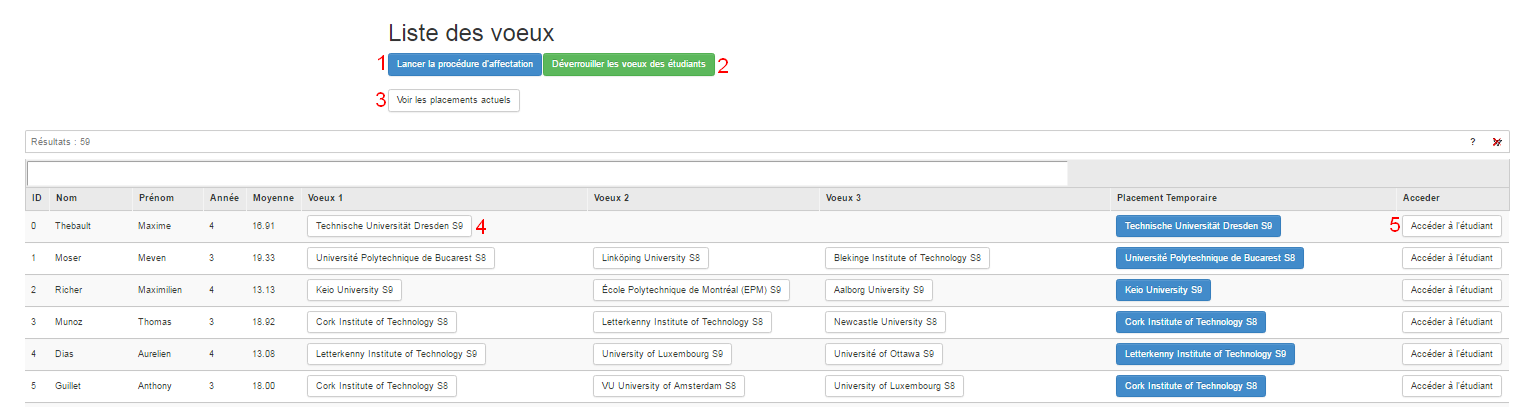
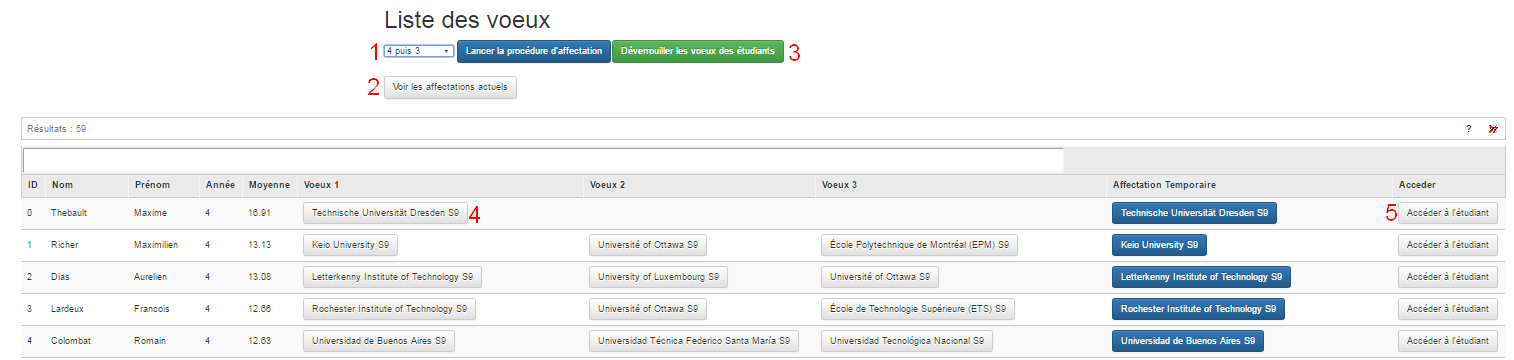
suite legende et ref

Changed region(s): [[0.0, 0.3056, 1.0, 1.0], [0.2483, 0.0306, 0.5277, 0.275]]

diff --git a/Doc utilisateur/administrateur.tex b/Doc utilisateur/administrateur.tex
@@ -79,8 +79,8 @@ Cette sur cette page que l'administrateur arrive à sa connexion. Depuis ce hub,
   \begin{enumerate}
   	\item ce bouton permet d'ouvrir votre explorateur de dossier pour sélectionner le fichier CSV contenant les universités que vous souhaitez ajouter,
   	\item ce menu déroulant permet de sélectionner les mobilités par défaut,
-  	\item ce menu déroulant permet de choisir le séparateur utilisé dans votre fichier CSV.
-  	\item 
+  	\item ce menu déroulant permet de choisir le séparateur utilisé dans votre fichier CSV.\att à bien choisir le CSV correspondant à votre fichier CSV,
+  	\item ce bouton permet de valider vos options et valider lancer l'import de vos universités via le CSV.
   \end{enumerate}
   
     \subsection{Fiches de jurys}
@@ -91,9 +91,16 @@ Cette sur cette page que l'administrateur arrive à sa connexion. Depuis ce hub,
     	\caption{Fiches de jurys}
     	
     \end{figure}
+    \begin{enumerate}
+    \item cette ligne permet la génération des fiches de jury. Référez vous à la section \ref{fju},
+    \item en cliquant sur ce bouton vous accéder à la page étudiant en mode administrateur (cf \ref{ev}, \ref{en}, \ref{ef}).
+    \end{enumerate}
     
+    
+      
  \subsection{Fiches universités}
  \label{fu}
+ Sur cette page sont présente les informations relatives à une universités. On trouve d'abords la liste des départs possibles pour l'universités indépendamment du département. Ensuite le second tableau montre tous les étudiants de votre département ayant fait un vœux pour cette université puis un tableau contenant la liste des tous les élèves déjà partit dans cette université, indépendamment de leur département.
    \begin{figure}[H]
       	\centering
        \includegraphics[width=16cm,height=10cm]{Images/Admin/fiche_univ_admin.png}
@@ -105,10 +112,16 @@ Cette sur cette page que l'administrateur arrive à sa connexion. Depuis ce hub,
    \label{lv}
    \begin{figure}[H]
    	\centering
-   	\includegraphics[width=16cm,height=10cm]{Images/Admin/liste_voeux_admin.png}
-   	\caption{Liste des vœux}
-   	
+   	\includegraphics[width=18cm,height=10cm]{Images/Admin/liste_voeux_admin.png}
+   	\caption{Liste des vœux} 	
    \end{figure}
+   \begin{enumerate}
+   	\item
+   	\item
+   	\item
+   	\item
+   	\item
+	\end{enumerate}
    
     \subsection{Affectation des élèves}
     \label{ae}
@@ -220,5 +233,8 @@ Depuis la page d'un élève, vous pouvez ajoutez manuellement un learning agreem
 
 Depuis la page d'un étudiant, dans la section "Upload de documents, vous pouvez ajouter des fichiers pour l'élève en question. Pour cela, entrez le nom souhaité pour le document puis cliquer sur "choisissez un fichier" et sélectionnez le fichier. Cliquez enfin sur "envoyer" 
 
-\section{Notes et fiches de jury}
+\section{Gérer les notes des élèves}
+
+\section{Générer les fiches de jury}
+\label{fju}
 
